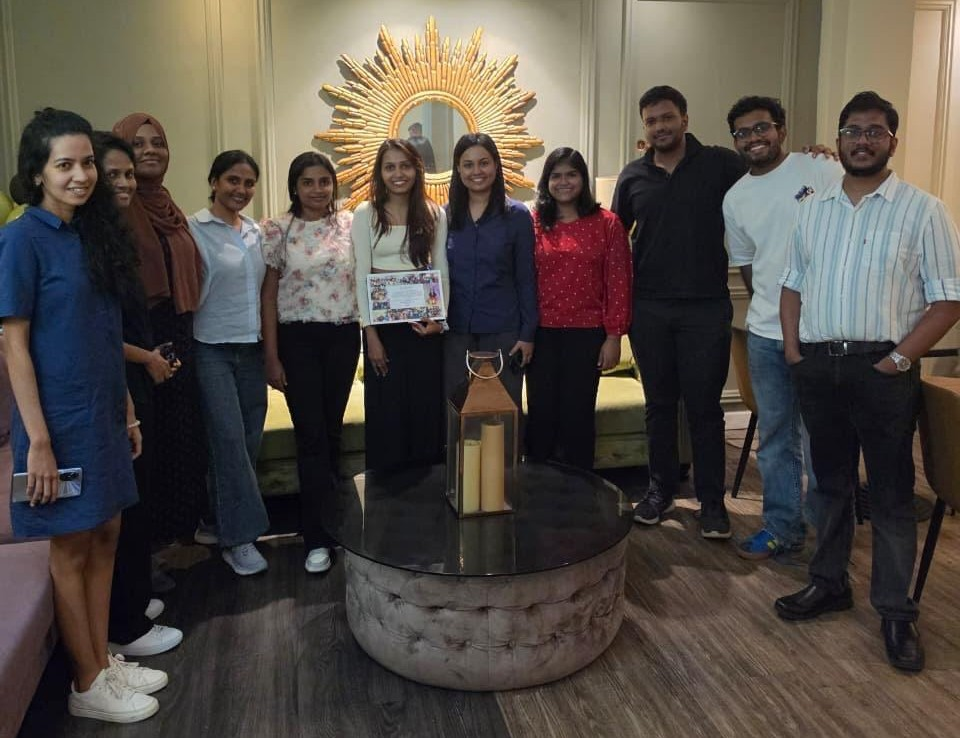
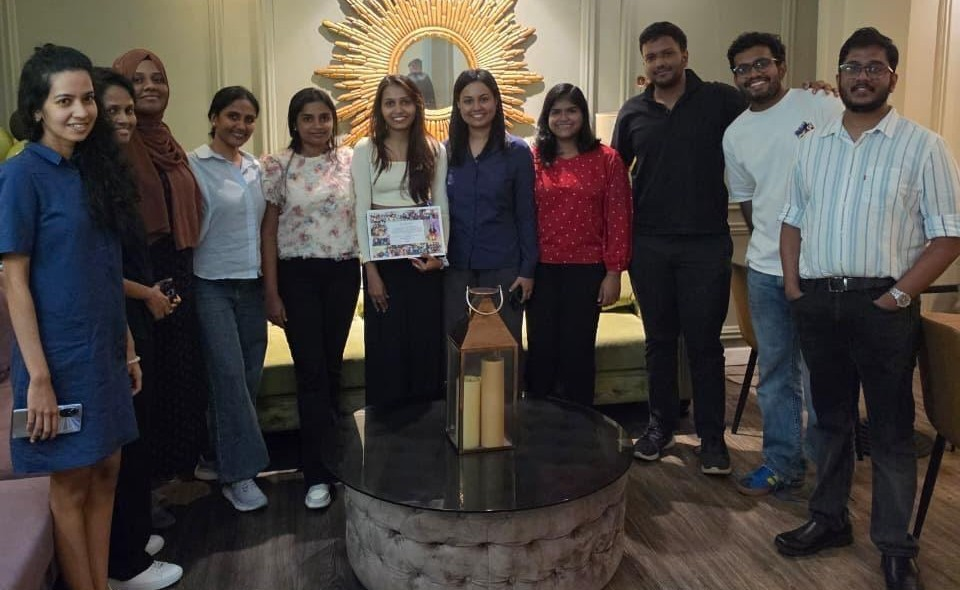
update portfolio

diff --git a/reserches.html b/reserches.html
@@ -7,7 +7,7 @@
 <html>
 
 <head>
-	<title>Researches</title>
+	<title>Research Works</title>
 	<meta charset="utf-8" />
 	<meta name="viewport" content="width=device-width, initial-scale=1, user-scalable=no" />
 	<link rel="stylesheet" href="assets/css/main.css" />
@@ -35,7 +35,7 @@
 
 		<header id="header" class="alt">
 			<div class="navbar">
-				<a href="#researches">Researches</a>
+				<a href="#researches">Research Works</a>
 				<div class="dropdown">
 					<button class="dropbtn">
 						<i class="fa fa-bars" style="font-size:24px"></i>
@@ -43,7 +43,7 @@
 					<div class="dropdown-content">
 						<a href="index.html">Home</a>
 						<a href="experience.html">Experience</a>
-						<a href="reserches.html">Researches</a>
+						<a href="reserches.html">Research Works</a>
 						<a href="projects.html">Projects</a>
 						<a href="achievements.html">Achievements</a>
 						<a href="certifications.html">Certifications</a>
@@ -57,7 +57,7 @@
 			<header id="researches">
 				<div class="inner">
 					<div class="back"><a href="index.html" class="special">Back</a></div>
-					<h2>Researches</h2>
+					<h2>Research Works</h2>
 					<section class="features">
 						<article>
 							<a href="researches/mr-swarm-robotics-platform.html" class="image"><img

diff --git a/researches/automatic-segmentation-of-lumbar-intervertebral-discs.html b/researches/automatic-segmentation-of-lumbar-intervertebral-discs.html
@@ -81,7 +81,7 @@
                     <div class="dropdown-content">
                         <a href="../index.html">Home</a>
 						<a href="../experience.html">Experience</a>
-                        <a href="../reserches.html">Researches</a>
+                        <a href="../reserches.html">Research Works</a>
                         <a href="../projects.html">Projects</a>
                         <a href="../achievements.html">Achievements</a>
                         <a href="../certifications.html">Certifications</a>
@@ -94,7 +94,7 @@
         <section id="wrapper">
             <header id="lumbar-intervertebral-discs">
                 <div class="inner">
-                    <div class="back"><a href="../reserches.html" class="special">Researches</a></div>
+                    <div class="back"><a href="../reserches.html" class="special">Research Works</a></div>
                     <h2 class="major">Automatic Segmentation of Lumbar Intervertebral Discs from the Axial View</h2>
                     <img src="../images/researches/lumbar.png" alt="" class="center" />
                     <p>Submitted for <b>"Moratuwa Engineering Research Conference

diff --git a/experience.html b/experience.html
@@ -81,7 +81,7 @@
 					<div class="dropdown-content">
 						<a href="index.html">Home</a>
 						<a href="experience.html">Experience</a>
-						<a href="reserches.html">Researches</a>
+						<a href="reserches.html">Research Works</a>
 						<a href="projects.html">Projects</a>
 						<a href="achievements.html">Achievements</a>
 						<a href="certifications.html">Certifications</a>
@@ -162,8 +162,6 @@
 					</p><br>
 					
 					<img src="images/experience/Xyicon1.jpeg" alt="" class="gallery" />
-					<img src="images/experience/Xyicon2.jpeg" alt="" class="gallery" />
-					<img src="images/experience/Xyicon3.jpeg" alt="" class="gallery" />
 					<br><br>
 
 					<h3 class="major">Temporary Instructor - Department of Computer Engineering, University of
@@ -221,7 +219,6 @@
 						maintainability while identifying and resolving application defects.<br>
 					
 					<img src="images/experience/pera1.jpeg" alt="" class="gallery" />
-					<img src="images/experience/pera2.jpeg" alt="" class="gallery" />
 					</p>
 				</div>
 			</header>

diff --git a/researches/mr-swarm-robotics-platform-tasme.html b/researches/mr-swarm-robotics-platform-tasme.html
@@ -81,7 +81,7 @@
 					<div class="dropdown-content">
 						<a href="../index.html">Home</a>
 						<a href="../experience.html">Experience</a>
-						<a href="../reserches.html">Researches</a>
+						<a href="../reserches.html">Research Works</a>
 						<a href="../projects.html">Projects</a>
 						<a href="../achievements.html">Achievements</a>
 						<a href="../certifications.html">Certifications</a>
@@ -94,7 +94,7 @@
 		<section id="wrapper">
 			<header id="mr-swarm-robotics-platform">
 				<div class="inner">
-					<div class="back"><a href="../reserches.html" class="special">Researches</a></div>
+					<div class="back"><a href="../reserches.html" class="special">Research Works</a></div>
 					<h2 class="major">Mixed Reality based Multi-Agent Robotics Framework for Artificial Swarm
 						Intelligence Experiments</h2>
 					<img src="../images/researches/swarm.jpg" alt="" class="center" />

diff --git a/researches/mr-swarm-robotics-platform.html b/researches/mr-swarm-robotics-platform.html
@@ -80,7 +80,7 @@
 					<div class="dropdown-content">
 						<a href="../index.html">Home</a>
 						<a href="../experience.html">Experience</a>
-						<a href="../reserches.html">Researches</a>
+						<a href="../reserches.html">Research Works</a>
 						<a href="../projects.html">Projects</a>
 						<a href="../achievements.html">Achievements</a>
 						<a href="../certifications.html">Certifications</a>
@@ -93,7 +93,7 @@
 		<section id="wrapper">
 			<header id="mr-swarm-robotics-platform">
 				<div class="inner">
-					<div class="back"><a href="../reserches.html" class="special">Researches</a></div>
+					<div class="back"><a href="../reserches.html" class="special">Research Works</a></div>
 					<h2 class="major">Mixed Reality based Multi-Agent Robotics Framework for Artificial Swarm
 						Intelligence Experiments</h2>
 					<img src="../images/researches/swarm.jpg" alt="" class="center" />

diff --git a/index.html b/index.html
@@ -48,7 +48,7 @@
 					</button>
 					<div class="dropdown-content">
 						<a href="#experience">Experience</a>
-						<a href="#researches">Researches</a>
+						<a href="#researches">Research Works</a>
 						<a href="#projects">Projects</a>
 						<a href="#achievements">Achievements</a>
 						<a href="#certifications">Certifications</a>
@@ -166,7 +166,7 @@
 			<!-- Four -->
 			<section id="researches" class="wrapper alt style1">
 				<div class="inner">
-					<h2 class="major">Researches</h2>
+					<h2 class="major">Research Works</h2>
 					<section class="features">
 						<article>
 							<a href="researches/mr-swarm-robotics-platform.html" class="image"><img

diff --git a/achievements/aces-codersv7.0.html b/achievements/aces-codersv7.0.html
@@ -81,7 +81,7 @@
 					<div class="dropdown-content">
 						<a href="../index.html">Home</a>
 						<a href="../experience.html">Experience</a>
-						<a href="../reserches.html">Researches</a>
+						<a href="../reserches.html">Research Works</a>
 						<a href="../projects.html">Projects</a>
 						<a href="../achievements.html">Achievements</a>
 						<a href="../certifications.html">Certifications</a>

diff --git a/achievements/aces-codersv8.0.html b/achievements/aces-codersv8.0.html
@@ -81,7 +81,7 @@
 					<div class="dropdown-content">
 						<a href="../index.html">Home</a>
 						<a href="../experience.html">Experience</a>
-						<a href="../reserches.html">Researches</a>
+						<a href="../reserches.html">Research Works</a>
 						<a href="../projects.html">Projects</a>
 						<a href="../achievements.html">Achievements</a>
 						<a href="../certifications.html">Certifications</a>

diff --git a/achievements/aces-hackathon2018.html b/achievements/aces-hackathon2018.html
@@ -81,7 +81,7 @@
 					<div class="dropdown-content">
 						<a href="../index.html">Home</a>
 						<a href="../experience.html">Experience</a>
-						<a href="../reserches.html">Researches</a>
+						<a href="../reserches.html">Research Works</a>
 						<a href="../projects.html">Projects</a>
 						<a href="../achievements.html">Achievements</a>
 						<a href="../certifications.html">Certifications</a>

diff --git a/achievements/aces-hackathon2019.html b/achievements/aces-hackathon2019.html
@@ -81,7 +81,7 @@
 					<div class="dropdown-content">
 						<a href="../index.html">Home</a>
 						<a href="../experience.html">Experience</a>
-						<a href="../reserches.html">Researches</a>
+						<a href="../reserches.html">Research Works</a>
 						<a href="../projects.html">Projects</a>
 						<a href="../achievements.html">Achievements</a>
 						<a href="../certifications.html">Certifications</a>

diff --git a/achievements/google-hash-code.html b/achievements/google-hash-code.html
@@ -81,7 +81,7 @@
 					<div class="dropdown-content">
 						<a href="../index.html">Home</a>
 						<a href="../experience.html">Experience</a>
-						<a href="../reserches.html">Researches</a>
+						<a href="../reserches.html">Research Works</a>
 						<a href="../projects.html">Projects</a>
 						<a href="../achievements.html">Achievements</a>
 						<a href="../certifications.html">Certifications</a>

diff --git a/achievements/ieeextreme12.0.html b/achievements/ieeextreme12.0.html
@@ -81,7 +81,7 @@
 					<div class="dropdown-content">
 						<a href="../index.html">Home</a>
 						<a href="../experience.html">Experience</a>
-						<a href="../reserches.html">Researches</a>
+						<a href="../reserches.html">Research Works</a>
 						<a href="../projects.html">Projects</a>
 						<a href="../achievements.html">Achievements</a>
 						<a href="../certifications.html">Certifications</a>
